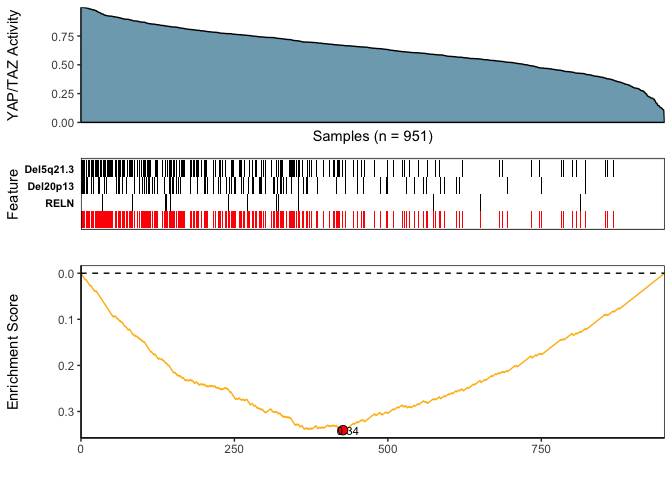
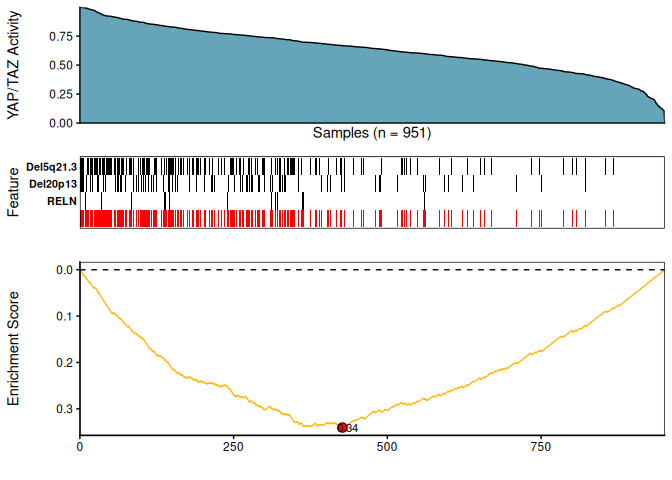
Re-build README.md

diff --git a/README.md b/README.md
@@ -1,4 +1,3 @@
-
 <!-- README.md is generated from README.Rmd. Please edit that file -->
 
 # CaDrA
@@ -17,12 +16,12 @@ interest.
 
 The main function takes two inputs:
 
-1)  A binary multi-omics dataset, which can be represented as a matrix
+1.  A binary multi-omics dataset, which can be represented as a matrix
     of binary features or a **SummarizedExperiment** class object where
     the rows are 1/0 vectors indicating the presence/absence of ‘omics’
     features (e.g. somatic mutations, copy number alterations,
     epigenetic marks, etc.), and the columns are the samples.
-2)  A molecular phenotype of interest which can be represented as a
+2.  A molecular phenotype of interest which can be represented as a
     vector of continuous scores (e.g. protein expression, pathway
     activity, etc.)
 
@@ -48,26 +47,26 @@ See our web portal at <https://cadra.bu.edu/>
 
 # Installation
 
-- Using `devtools` package
+-   Using `devtools` package
 
-``` r
-library(devtools)
-devtools::install_github("montilab/CaDrA")
-```
+<!-- -->
 
-- Using `BiocManager` package
+    library(devtools)
+    devtools::install_github("montilab/CaDrA")
 
-``` r
-# Install BiocManager
-if (!require("BiocManager", quietly = TRUE))
-    install.packages("BiocManager")
+-   Using `BiocManager` package
 
-# Install CaDrA
-BiocManager::install("CaDrA")
+<!-- -->
 
-# Install SummarizedExperiment
-BiocManager::install("SummarizedExperiment")
-```
+    # Install BiocManager
+    if (!require("BiocManager", quietly = TRUE))
+        install.packages("BiocManager")
+
+    # Install CaDrA
+    BiocManager::install("CaDrA")
+
+    # Install SummarizedExperiment
+    BiocManager::install("SummarizedExperiment")
 
 # Usage
 
@@ -82,37 +81,33 @@ copy number alterations) that best “explain” the YAP/TAZ activity?
 
 ## (i) Load R packages
 
-``` r
-library(CaDrA)
-library(SummarizedExperiment)
-```
+    library(CaDrA)
+    library(SummarizedExperiment)
 
 ## (ii) Format and filter data inputs
 
-``` r
-## Read in BRCA GISTIC+Mutation object
-utils::data(BRCA_GISTIC_MUT_SIG)
-eset_mut_scna <- BRCA_GISTIC_MUT_SIG
+    ## Read in BRCA GISTIC+Mutation object
+    utils::data(BRCA_GISTIC_MUT_SIG)
+    eset_mut_scna <- BRCA_GISTIC_MUT_SIG
 
-## Read in input score
-utils::data(TAZYAP_BRCA_ACTIVITY)
-input_score <- TAZYAP_BRCA_ACTIVITY
+    ## Read in input score
+    utils::data(TAZYAP_BRCA_ACTIVITY)
+    input_score <- TAZYAP_BRCA_ACTIVITY
 
-## Samples to keep based on the overlap between the two inputs
-overlap <- base::intersect(base::names(input_score), base::colnames(eset_mut_scna))
-eset_mut_scna <- eset_mut_scna[, overlap]
-input_score <- input_score[overlap]
+    ## Samples to keep based on the overlap between the two inputs
+    overlap <- base::intersect(base::names(input_score), base::colnames(eset_mut_scna))
+    eset_mut_scna <- eset_mut_scna[, overlap]
+    input_score <- input_score[overlap]
 
-## Binarize FS to only have 0's and 1's
-SummarizedExperiment::assay(eset_mut_scna)[SummarizedExperiment::assay(eset_mut_scna) > 1] <- 1.0
+    ## Binarize FS to only have 0's and 1's
+    SummarizedExperiment::assay(eset_mut_scna)[SummarizedExperiment::assay(eset_mut_scna) > 1] <- 1.0
 
-## Pre-filter FS based on occurrence frequency
-eset_mut_scna_flt <- CaDrA::prefilter_data(
-  FS = eset_mut_scna,
-  max_cutoff = 0.6,  # max event frequency (60%)
-  min_cutoff = 0.03  # min event frequency (3%)
-)  
-```
+    ## Pre-filter FS based on occurrence frequency
+    eset_mut_scna_flt <- CaDrA::prefilter_data(
+      FS = eset_mut_scna,
+      max_cutoff = 0.6,  # max event frequency (60%)
+      min_cutoff = 0.03  # min event frequency (3%)
+    )  
 
 ## (iii) Run CaDrA
 
@@ -123,20 +118,18 @@ number of times each feature is selected across repeated runs).
 **IMPORTANT NOTE**: The legacy function `topn_eval()` is equivalent to
 the new recommended `candidate_search()` function.
 
-``` r
-topn_res <- CaDrA::candidate_search(
-  FS = eset_mut_scna_flt,
-  input_score = input_score,
-  method = "ks_pval",          # Use Kolmogorow-Smirnow scoring function 
-  method_alternative = "less", # Use one-sided hypothesis testing
-  weights = NULL,              # If weights is provided, perform a weighted-KS test
-  search_method = "both",      # Apply both forward and backward search
-  top_N = 7,                   # Evaluate top 7 starting points for each search
-  max_size = 7,                # Maximum size a meta-feature matrix can extend to
-  do_plot = FALSE,             # Plot after finding the best features
-  best_score_only = FALSE      # Return all results from the search
-)
-```
+    topn_res <- CaDrA::candidate_search(
+      FS = eset_mut_scna_flt,
+      input_score = input_score,
+      method = "ks_pval",          # Use Kolmogorow-Smirnow scoring function 
+      method_alternative = "less", # Use one-sided hypothesis testing
+      weights = NULL,              # If weights is provided, perform a weighted-KS test
+      search_method = "both",      # Apply both forward and backward search
+      top_N = 7,                   # Evaluate top 7 starting points for each search
+      max_size = 7,                # Maximum size a meta-feature matrix can extend to
+      do_plot = FALSE,             # Plot after finding the best features
+      best_score_only = FALSE      # Return all results from the search
+    )
 
 ## (iv) Visualize the results
 
@@ -147,36 +140,34 @@ This plot produces 3 graphics stacked on top of each other:
 1.  A density diagram of observed input scores sorted from highest to
     lowest
 2.  A tile plot for the top meta-features that associated with a
-    molecular phenotype of interest (e.g. input_score)
+    molecular phenotype of interest (e.g. input\_score)
 3.  A KS enrichment plot of the meta-feature set (this correspond to the
     logical OR of the features)
 
-``` r
-## Fetch the meta-feature set corresponding to its best scores over top N features searches
-topn_best_meta <- CaDrA::topn_best(topn_res)
+<!-- -->
 
-# Visualize the best results with the meta-feature plot
-CaDrA::meta_plot(topn_best_list = topn_best_meta, input_score_label = "YAP/TAZ Activity")
-```
+    ## Fetch the meta-feature set corresponding to its best scores over top N features searches
+    topn_best_meta <- CaDrA::topn_best(topn_res)
 
-![](./man/figures/visualize.best-1.png)<!-- -->
+    # Visualize the best results with the meta-feature plot
+    CaDrA::meta_plot(topn_best_list = topn_best_meta, input_score_label = "YAP/TAZ Activity")
+
+![](./man/figures/visualize.best-1.png)
 
 ### Top-N plot
 
 This plot is a heatmap of overlapping meta-features by repeating
 `candidate_search` over top N feature searches.
 
-``` r
-# Evaluate results across top N features you started from
-CaDrA::topn_plot(topn_res) 
-```
+    # Evaluate results across top N features you started from
+    CaDrA::topn_plot(topn_res) 
 
-![](./man/figures/summarize-1.png)<!-- -->
+![](./man/figures/summarize-1.png)
 
 # Additional Guides
 
-- [How to run CaDrA within a Docker
-  environment](https://montilab.github.io/CaDrA/articles/docker.html)
+-   [How to run CaDrA within a Docker
+    environment](https://montilab.github.io/CaDrA/articles/docker.html)
 
 # Acknowledgements
 
